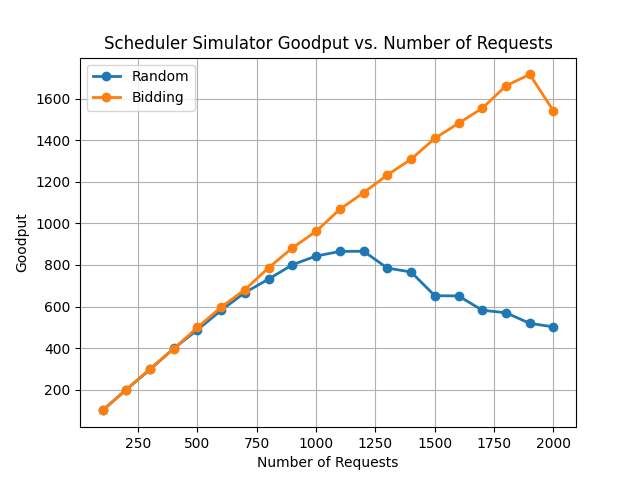
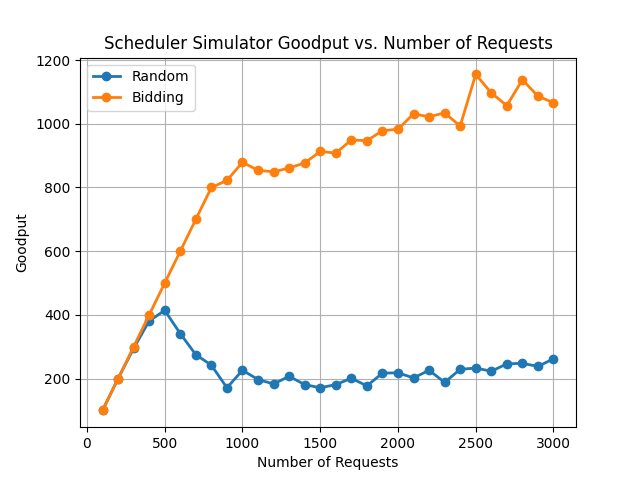
fix error in delay calculation

diff --git a/scheduler.py b/scheduler.py
@@ -1,9 +1,10 @@
 import argparse  
 import random  
+import numpy as np
   
   
 class Request:  
-    def __init__(self, tokens, deadline, arrival_time):  
+    def __init__(self, tokens, arrival_time, deadline):  
         self.tokens = tokens  
         self.deadline = deadline  
         self.arrival_time = arrival_time  
@@ -37,9 +38,7 @@ class SchedulerSimulator:
             batch_size = max(len(selected_requests), 16)  # Ensure batch size is no smaller than the number of selected requests  
         return selected_requests, batch_size  
   
-    def run_one_iteration(self, processing_requests, goodput):  
-        total_delay_now = 0  
-  
+    def run_one_iteration(self, processing_requests, goodput):    
         selected_requests, batch_size = self.scheduler(processing_requests)  
   
         for req in selected_requests:  
@@ -48,17 +47,16 @@ class SchedulerSimulator:
                 processing_requests.remove(req)  
                 if self.current_time <= req.deadline:  
                     goodput += 1  # Increment goodput if request finishes before deadline  
-            delay = self.calculate_delay(batch_size)  
-            total_delay_now += delay  
+        delay = self.calculate_delay(batch_size)   
   
-        return total_delay_now, goodput  
+        self.current_time += delay  # Update current_time by adding the total_delay_now  
+        return delay, goodput  
   
     def run_simulation(self):  
         goodput = 0  
         processing_requests = []  
   
-        while self.requests or processing_requests:  
-            self.current_time += 1  
+        while self.requests or processing_requests:    
             arrived_requests = [req for req in self.requests if req.arrival_time <= self.current_time]  
             processing_requests.extend(arrived_requests)  
             self.requests = [req for req in self.requests if req not in arrived_requests]  
@@ -67,17 +65,20 @@ class SchedulerSimulator:
   
         return goodput  
   
-    def generate_requests(self, num_requests, min_tokens, max_tokens, inference_delays):  
-        lambda_param = 1 / 1000  # Adjust this value to control the distribution of deadlines  
+    def generate_requests(self, num_requests, inference_delays):  
+        mu = 35.403855367569996  
+        sigma = 31.604314122710903  
+        lambda_param = 1/1000  # Adjust this value to control the distribution of deadlines  
         requests = [  
             Request(  
-                tokens := random.randint(min_tokens, max_tokens),  
-                deadline=inference_delays[1] * tokens + int(random.expovariate(lambda_param)),  
-                arrival_time=round(random.uniform(0, num_requests))  
+                tokens := max(1, int(np.random.normal(mu, sigma))),  
+                arrival_time := round(random.uniform(0, num_requests*mu)),
+                deadline= arrival_time + inference_delays[16] * tokens * 20 + int(random.expovariate(lambda_param)),   
             )  
             for _ in range(num_requests)  
         ]  
         return requests  
+   
   
   
 if __name__ == "__main__":  
@@ -87,9 +88,6 @@ if __name__ == "__main__":
   
     # Generate custom requests using the generate_requests method  
     num_requests = 1000  
-    min_tokens = 10  
-    max_tokens = 100  
-  
     parser = argparse.ArgumentParser(description="Scheduler Simulator")  
     # Add arguments  
     parser.add_argument("--num_requests", type=int, default=1000, help="Number of requests to generate") 
@@ -101,7 +99,7 @@ if __name__ == "__main__":
     policy = args.policy
   
     simulator = SchedulerSimulator([], inference_delays, policy)  
-    requests = simulator.generate_requests(num_requests, min_tokens, max_tokens, inference_delays)  
+    requests = simulator.generate_requests(num_requests, inference_delays)  
     simulator.requests = requests  
   
     goodput = simulator.run_simulation()  

diff --git a/run_scheduler.py b/run_scheduler.py
@@ -5,12 +5,12 @@ from scheduler import SchedulerSimulator
   
 inference_delays = {1: 42.89945313, 2: 45.02945313, 4: 50.47695313, 8: 62.123125, 16: 84.1871875}  
   
-def main(num_requests, min_tokens, max_tokens, inference_delays, policy):  
+def main(num_requests, inference_delays, policy):  
     # Initialize the scheduler simulator  
     simulator = SchedulerSimulator([], inference_delays, policy)  
   
     # Generate the requests  
-    requests = simulator.generate_requests(num_requests, min_tokens, max_tokens, inference_delays)  
+    requests = simulator.generate_requests(num_requests, inference_delays)  
     simulator.requests = requests  
   
     # Run the simulation  
@@ -19,22 +19,19 @@ def main(num_requests, min_tokens, max_tokens, inference_delays, policy):
     # Return the goodput  
     return goodput  
   
-if __name__ == "__main__":  
-    min_tokens = 1  
-    max_tokens = 100  
-  
+if __name__ == "__main__":   
     num_requests_values = list(range(100, 2100, 100))  
     goodput_values_random = []  
     goodput_values_bidding = []  
   
     # Loop through num_requests from 100 to 2000 with a step of 100 for random policy  
     for num_requests in num_requests_values:  
-        goodput_random = main(num_requests, min_tokens, max_tokens, inference_delays, policy='random')  
+        goodput_random = main(num_requests, inference_delays, policy='random')  
         goodput_values_random.append(goodput_random)  
   
     # Loop through num_requests from 100 to 2000 with a step of 100 for bidding policy  
     for num_requests in num_requests_values:  
-        goodput_bidding = main(num_requests, min_tokens, max_tokens, inference_delays, policy='bidding')  
+        goodput_bidding = main(num_requests, inference_delays, policy='bidding')  
         goodput_values_bidding.append(goodput_bidding)  
   
     # Plot the results  
